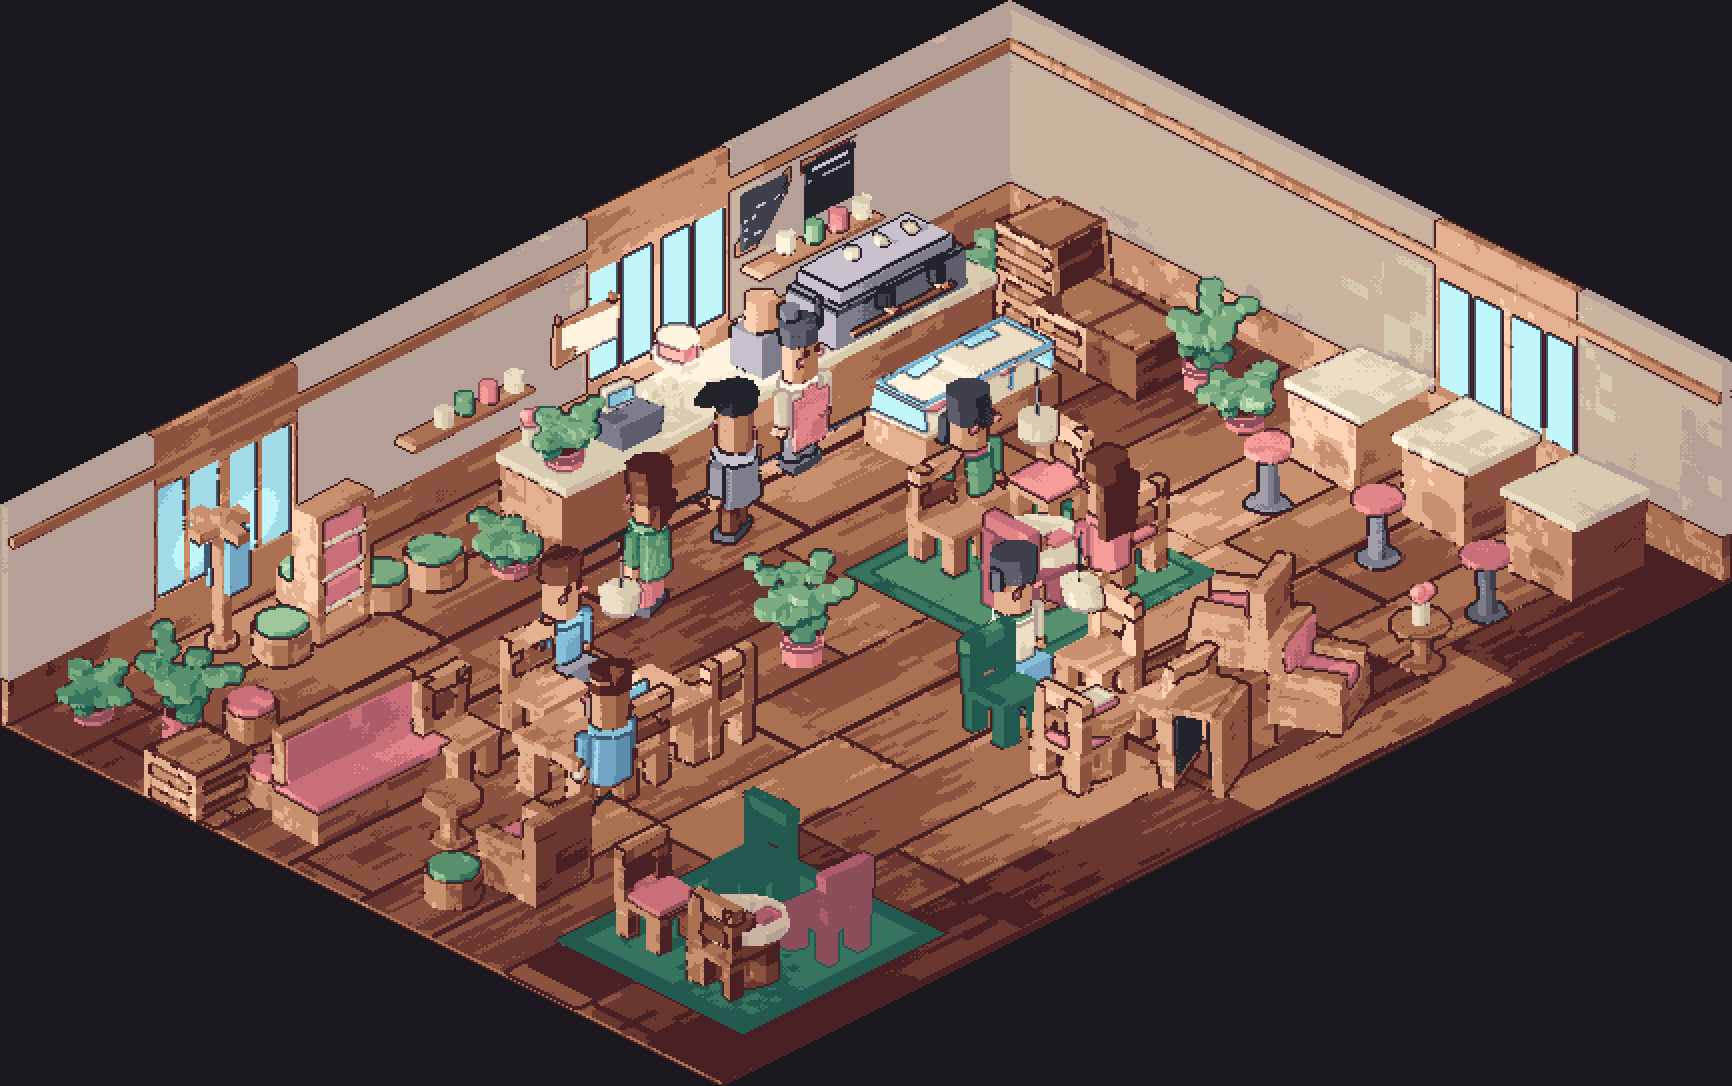
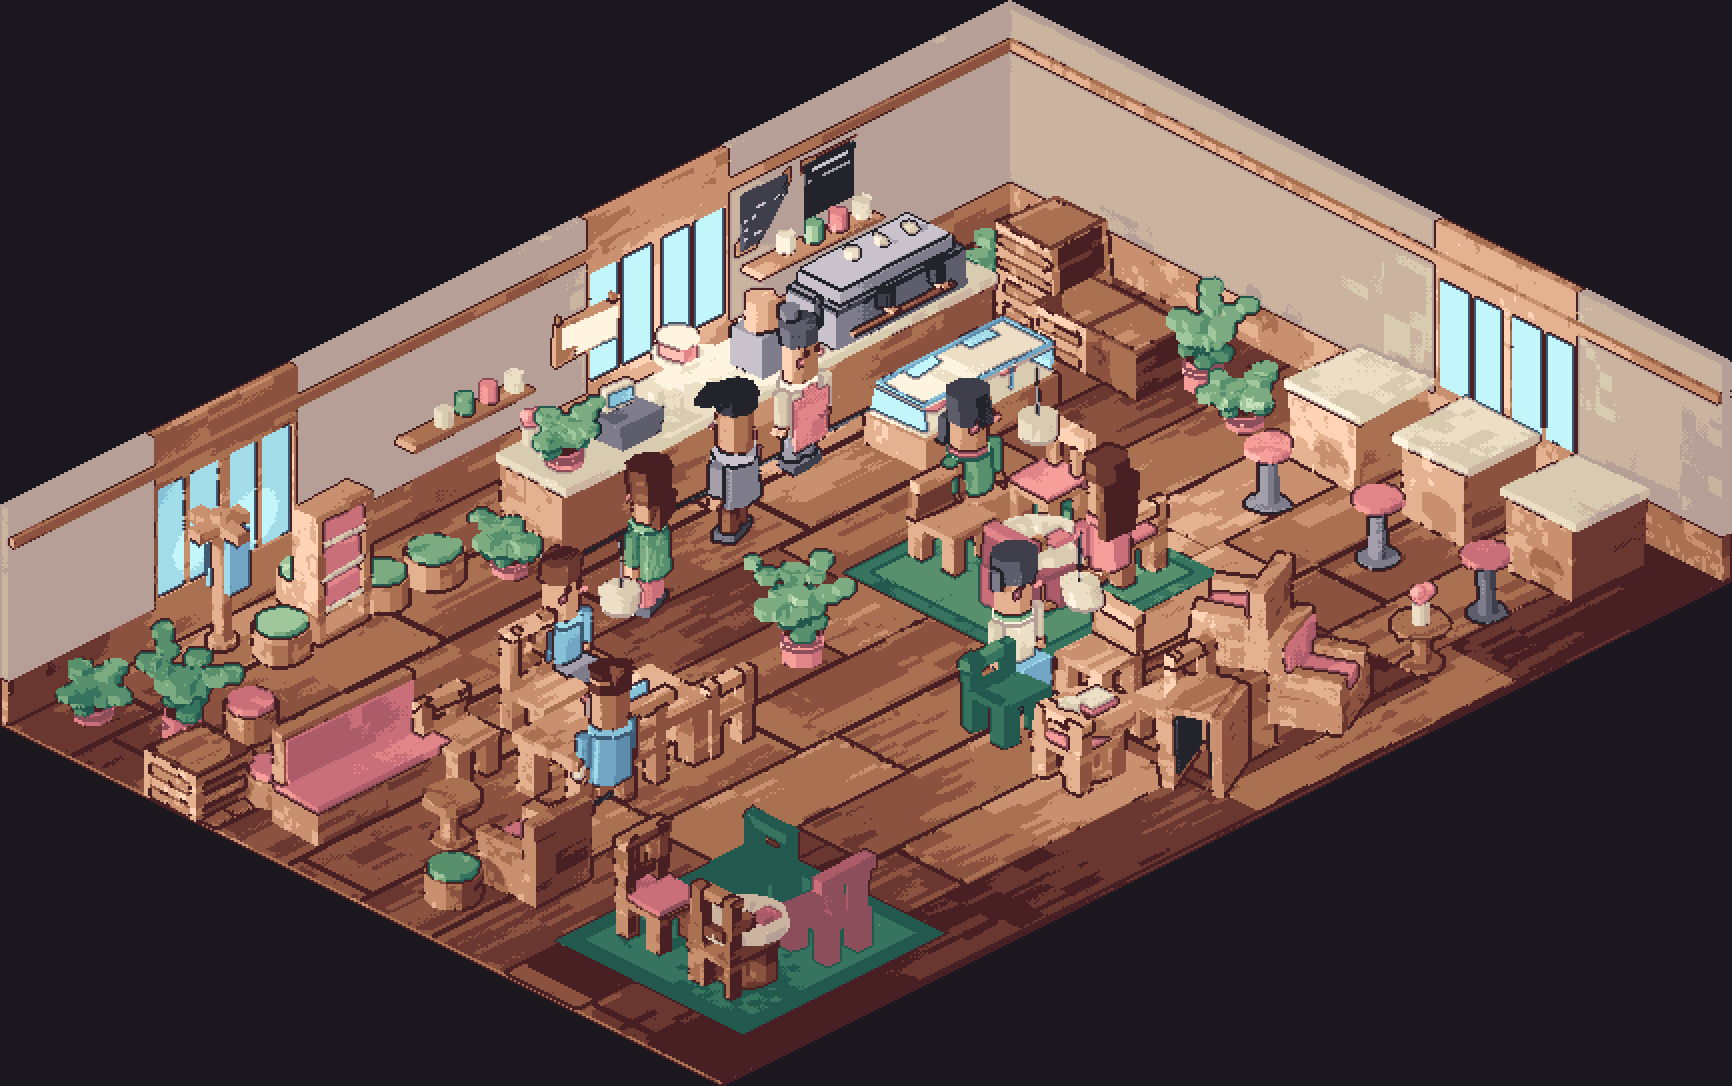
Chair generator, and the lesson that only silhouette survives downsampling
Fourteen chairs in the reference room were one mesh. The first generator varied
the back infill -- slat, ladder, spindle, cross -- and produced eight chairs
identical apart from colour: at 27 px per world unit the gap between the stiles
is six pixels and every infill resolved to the same two-pixel smudge. Same
lesson the rig learned at 46 px, where a pose reads from limb direction and not
from articulation.

The styles now vary silhouette -- low bentwood, tall and open, a rail
overhanging into a T, a filled panel to two-thirds height -- and each draws its
own stiles, since height and overhang are most of the difference.

That produced a legitimate occlusion report: a tall back covers 45% of the chair
opposite at the same round table. Four chairs around one table are placed as a
unit at fixed offsets, so their mutual overlap is a property of the group's
geometry, not of a placement. Same-group members are now exempt from
screen_occlusion; chairs from different tables landing on each other still fire.

Also: sprite sheets regenerated (3032 frames) with grain and the corrected
facings, and the reference room verified byte-identical across processes, which
is what the fixed-LCG floor and scatter were for.

manifest.py --check clean.

Claude-Session: https://claude.ai/code/session_01Q5KEMm7eqHrVgYtYGEkSmS

diff --git a/tools/assetlib.py b/tools/assetlib.py
@@ -403,29 +403,95 @@ def table_4top() -> Mesh:
     return m
 
 
-def chair(cushion=None, frame=WOOD) -> Mesh:
+# Chair back styles.
+#
+# The first version of these varied the *infill* -- slat, ladder, spindle,
+# cross. Rendered at the room's 27 px per world unit, the gap between the two
+# stiles is about six pixels wide and every infill inside it came out as the
+# same two-pixel smudge: eight chairs that were identical apart from colour, for
+# four styles' worth of code. This is the same lesson the rig learned at 46 px,
+# where a pose reads from limb direction and not from articulation.
+#
+# So the styles vary the SILHOUETTE instead, and each one draws its own stiles
+# because height and overhang are most of the difference. Outline survives
+# downsampling; interior detail does not.
+def _back_low(m, f, sz, x0, x1, y0, y1):
+    """Short square back, cafe-bentwood height."""
+    top = sz + 0.34
+    for sx in (x0, x1 - 0.15):
+        m.add_box((sx, y0, sz), (sx + 0.15, y1, top), f)
+    m.add_box((x0, y0 + 0.005, top - 0.13), (x1, y1, top), f + "+1")
+
+
+def _back_tall(m, f, sz, x0, x1, y0, y1):
+    """Tall and open -- two stiles and one rail, with air between them."""
+    top = sz + 0.68
+    for sx in (x0 + 0.02, x1 - 0.17):
+        m.add_box((sx, y0, sz), (sx + 0.15, y1, top), f)
+    m.add_box((x0, y0 + 0.005, top - 0.12), (x1, y1, top), f + "+1")
+    m.add_box((x0 + 0.06, y0 + 0.02, sz + 0.16), (x1 - 0.06, y1 - 0.02, sz + 0.26),
+              f + "-1")
+
+
+def _back_shoulder(m, f, sz, x0, x1, y0, y1):
+    """Top rail overhangs the stiles, so the outline reads as a T."""
+    top = sz + 0.55
+    for sx in (x0 + 0.07, x1 - 0.22):
+        m.add_box((sx, y0, sz), (sx + 0.15, y1, top - 0.11), f)
+    m.add_box((x0 - 0.04, y0 + 0.005, top - 0.15), (x1 + 0.04, y1, top), f + "+1")
+
+
+def _back_solid(m, f, sz, x0, x1, y0, y1):
+    """Filled panel, but only to two-thirds height so it is not a wall."""
+    top = sz + 0.44
+    m.add_box((x0, y0, sz), (x1, y1 - 0.02, top - 0.10), f + "-1")
+    m.add_box((x0, y0 + 0.005, top - 0.12), (x1, y1, top), f + "+1")
+
+
+BACK_STYLES = (_back_low, _back_tall, _back_shoulder, _back_solid)
+
+
+def chair(cushion=None, frame=WOOD, seed: int | None = None) -> Mesh:
     """Back at -y, so a chair at rot=0 has its back away from a table to its +y.
 
-    The back is an open frame -- two stiles, a top rail, a mid slat -- rather
-    than one filled panel. A solid back is 16 x 13 px of unbroken wood at room
-    scale and reads as a partition wall, which is what review actually flagged.
-    The gaps are what make the silhouette say "chair".
+    The back is an open frame rather than one filled panel. A solid full-height
+    back is 16 x 13 px of unbroken wood at room scale and reads as a partition
+    wall, which is what review actually flagged. The gaps are what make the
+    silhouette say "chair".
 
     `frame` exists because 67% of the room measured as the wood ramp, and when
     every object shares one ramp, furniture stops separating from furniture. A
     painted chair costs nothing -- the ramps already exist -- and buys object
     separation that no amount of extra geometry would.
+
+    `seed` picks a back silhouette and jitters leg thickness. Without it every
+    one of the fourteen chairs in the reference room is the same mesh, and a cafe
+    furnished from a single catalogue entry is the tell that nothing here grew.
+    The styles are a dozen lines each and compose with every frame and cushion
+    option rather than multiplying against them.
+
+    `seed=None` keeps a fixed chair, so callers that have not opted in are
+    unaffected and existing sprite sheets stay stable.
     """
+    st = None if seed is None else (seed * 2654435761 + 1013904223) & 0x7FFFFFFF
+
+    def rnd():
+        nonlocal st
+        if st is None:
+            return 0.5
+        st = (st * 1103515245 + 12345) & 0x7FFFFFFF
+        return (st >> 8) / (0x7FFFFFFF >> 8)
+
     m = Mesh()
     seat_z = 0.45                      # ~28% of character height; was 0.52
+    leg_r = 0.090 + ((rnd() - 0.5) * 0.020 if seed is not None else 0.0)
     for cx, cy in ((0.28, 0.28), (0.72, 0.28), (0.28, 0.72), (0.72, 0.72)):
-        m.add_box((cx - 0.090, cy - 0.090, 0), (cx + 0.090, cy + 0.090, seat_z - 0.07),
-                  frame)
+        m.add_box((cx - leg_r, cy - leg_r, 0),
+                  (cx + leg_r, cy + leg_r, seat_z - 0.07), frame)
     m.add_box((0.18, 0.18, seat_z - 0.07), (0.82, 0.82, seat_z), frame)     # seat
-    for sx in (0.20, 0.68):                                                 # stiles
-        m.add_box((sx - 0.01, 0.19, seat_z), (sx + 0.15, 0.34, 1.02), frame)
-    m.add_box((0.19, 0.19, 0.86), (0.83, 0.34, 1.02), frame + "+1")         # top rail
-    m.add_box((0.24, 0.20, 0.60), (0.78, 0.33, 0.75), frame + "-1")         # mid slat
+    style = (_back_low if seed is None
+             else BACK_STYLES[int(rnd() * len(BACK_STYLES)) % len(BACK_STYLES)])
+    style(m, frame, seat_z, 0.19, 0.83, 0.19, 0.34)
     if cushion:
         m.add_box((0.21, 0.21, seat_z), (0.79, 0.79, seat_z + 0.06), cushion)
     return m

diff --git a/tools/render_room.py b/tools/render_room.py
@@ -134,15 +134,16 @@ def build_room():
         for k, (dx, dy, rot) in enumerate((
                 (0.0, 1.15, 180), (0.0, -1.15, 0), (1.15, 0.0, 90), (-1.15, 0.0, 270))):
             add(A.chair(cushion="rose" if (n + k) % 3 == 0 else None,
-                        frame=FRAMES[(n * 4 + k) % len(FRAMES)]),
+                        frame=FRAMES[(n * 4 + k) % len(FRAMES)],
+                        seed=51 + n * 4 + k),
                 at=(tx + dx, ty + dy, 0), rot=rot, name=f"chair#{n}_{k}")
 
     # --- 4-top with four chairs
     add(A.table_4top(), at=(9.5, 4.5, 0), name="table#4top")
     add(A.table_clutter("work"), at=(9.9, 4.5, 0.71), name="clutter#4top")
     for cx in (9.8, 11.0):
-        add(A.chair(),                  at=(cx, 3.35, 0), rot=0,   name=f"chair#4t_{cx}a")
-        add(A.chair(),                  at=(cx, 5.65, 0), rot=180, name=f"chair#4t_{cx}b")
+        add(A.chair(seed=int(cx * 10)),  at=(cx, 3.35, 0), rot=0,   name=f"chair#4t_{cx}a")
+        add(A.chair(seed=int(cx * 10) + 7), at=(cx, 5.65, 0), rot=180, name=f"chair#4t_{cx}b")
 
     # --- window bar with stools along the far-left wall
     for i in range(3):
@@ -201,7 +202,7 @@ def build_room():
     add(A.wall_shelf(1.8), at=(2.1, 0.10, 0.66), name="decor#shelf1", track=False)
     add(A.wall_shelf(1.8), at=(6.9, 0.10, 0.66), name="decor#shelf2", track=False)
     add(A.cake_stand(), at=(5.55, 0.95, 0.92), name="clutter#cake", centre=True)
-    add(A.cup_and_saucer(), at=(6.35, 0.72, 0.92), name="clutter#cup1")
+    add(A.cup_and_saucer(), at=(5.6, 0.72, 0.92), name="clutter#cup1")
     add(A.cup_and_saucer(), at=(5.05, 1.15, 0.92), name="clutter#cup2")
     add(A.flower_vase(),    at=(7.6, 0.95, 0.92), name="clutter#vase2", centre=True)
 

diff --git a/tools/layout.py b/tools/layout.py
@@ -281,6 +281,16 @@ class Layout:
                 kind_a, kind_b = a.name.split("#")[0], b.name.split("#")[0]
                 if frozenset({kind_a, kind_b}) in TUCK_OK:
                     continue
+                # Members of one furniture group. Four chairs around a round
+                # table are placed as a unit at fixed offsets, so how much they
+                # overlap on screen is a property of the group's geometry, not
+                # of anyone's placement -- give one of them a tall back and the
+                # near chair covers 45% of the far one, which is what a tall
+                # chair does. Two chairs from *different* tables landing on each
+                # other is still a defect and still fires.
+                if (a.name.rsplit("_", 1)[0] == b.name.rsplit("_", 1)[0]
+                        and "_" in a.name and "_" in b.name):
+                    continue
                 bu0, bu1, bv0, bv1, bd = boxes[b.name]
                 if abs(ad - bd) < depth:
                     continue

diff --git a/ART_CRITIQUE.md b/ART_CRITIQUE.md
@@ -721,6 +721,30 @@ Now slatted, with the slats drawn as value a thousandth of a unit proud of each
 face — and only on the three faces this camera can see, because
 `check_buried_detail` would report the rest as buried and would be right.
 
+## Chairs, and what does not survive downsampling
+
+Fourteen chairs in the reference room, all one mesh. The first generator varied
+the back *infill* -- slat, ladder, spindle, cross -- which was four styles'
+worth of code that produced eight chairs identical apart from colour. At the
+room's 27 px per world unit the gap between the two stiles is about six pixels
+and every infill inside it resolved to the same two-pixel smudge.
+
+This is the rig's lesson at a different scale. There, a pose reads from limb
+*direction* and not from articulation, because at 46 px there is no room for
+articulation. Here, a chair reads from its *outline* and not from its joinery.
+So the styles vary silhouette instead -- low bentwood, tall and open, a top rail
+overhanging into a T, a filled panel to two-thirds height -- and each draws its
+own stiles, because height and overhang are most of the difference. Outline
+survives downsampling; interior detail does not.
+
+That immediately produced a legitimate occlusion report: a tall back covers 45%
+of the chair opposite it at the same round table. Four chairs around one table
+are placed as a unit at fixed offsets, so how much they overlap on screen is a
+property of the group's geometry rather than of anyone's placement -- give one a
+tall back and this is simply what happens. Members of the same group are now
+exempt from `screen_occlusion`; two chairs from *different* tables landing on
+each other is still a defect and still fires.
+
 ## Where the numbers landed
 
 | | fourth pass | fifth pass |
@@ -734,8 +758,10 @@ face — and only on the three faces this camera can see, because
 
 ## Still open
 
-- `assetlib.py` is still 131 hand-written primitive calls. `leafy_plant` shows
-  what the replacement looks like; furniture has not had the same treatment.
+- `assetlib.py` is still mostly hand-written primitive calls. `leafy_plant` and
+  `chair` show what the replacement looks like -- one generator, a seed, and
+  variation that costs nothing per instance -- but tables, counters, benches and
+  the espresso machine are all still single fixed meshes.
 - Stages 1–3 remain unbuilt. Everything here is still the deterministic render
   half — but the scatter solver is the first piece that *generates* rather than
   verifies, and it runs on the checks the earlier passes built.
